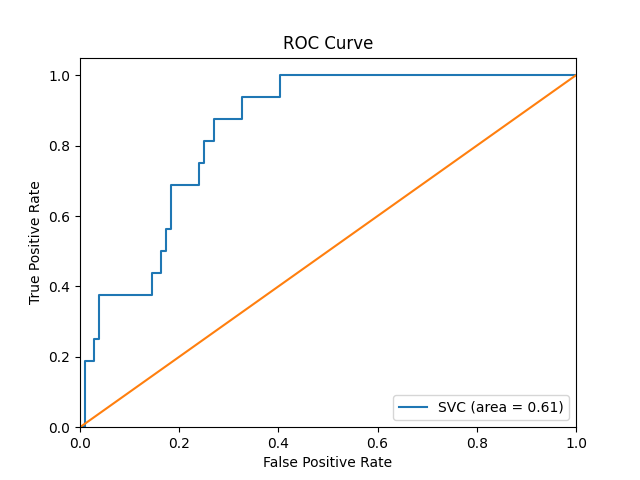
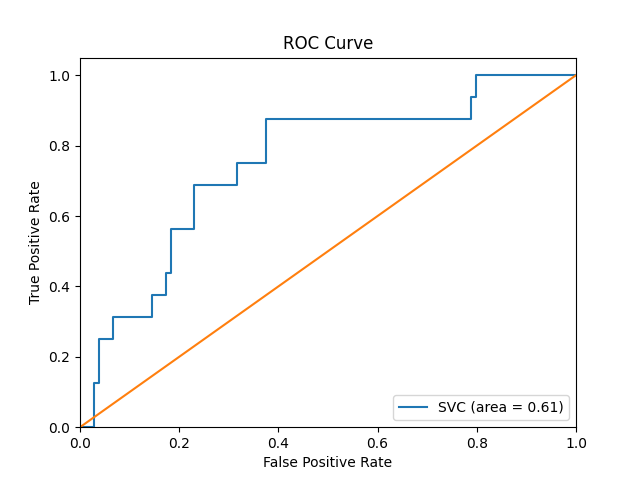
fixing svm

diff --git a/linearSVM.py b/linearSVM.py
@@ -41,7 +41,7 @@ print("Precision:", metrics.precision_score(y_test, y_pred1))
 print("Recall:", metrics.recall_score(y_test, y_pred1))
 
 # feature importance/selection (dimensionality reduction)
-# 'B', 'C', 'F', 'G', 'H', 'I', 'J', 'K', 'L', 'M', 'N', 'O', 'P' features give greatest accuracy and keeps the most possible features
+# ['A', 'B', 'E', 'F', 'G', 'H', 'I', 'K', 'M', 'N', 'O', 'P']
 # x_train_new = x_train.copy()
 # x_test_new = x_test.copy()
 #
@@ -74,19 +74,17 @@ print("Recall:", metrics.recall_score(y_test, y_pred1))
 #             print(ls, "  Accuracy on training set:{:.4%}".format(accuracy),
 #             " Accuracy on test set:{:.4%}".format(accuracy1))
 
-x_train = pd.concat([x_train["1st_serve_points_won"], x_train["2nd_serve_points_won"],
+x_train = pd.concat([x_train["1st_serve"], x_train["1st_serve_points_won"], x_train["service_games_won"],
                      x_train["1st_serve_return_points_won"], x_train["2nd_serve_return_points_won"],
-                             x_train["break_points_converted"], x_train["return_games_won"], x_train["rank"],
-                     x_train["height (cm)"], x_train["matches_played"], x_train["aces_per_match"],
-                     x_train["double_faults_per_match"], x_train["break_points_opportunities_per_match"],
-                             x_train["break_points_faced_per_match"]], axis=1)
+                     x_train["break_points_converted"], x_train["return_games_won"], x_train["height (cm)"],
+                     x_train["aces_per_match"], x_train["double_faults_per_match"],
+                     x_train["break_points_opportunities_per_match"], x_train["break_points_faced_per_match"]], axis=1)
 
-x_test = pd.concat([x_test["1st_serve_points_won"], x_test["2nd_serve_points_won"],
+x_test = pd.concat([x_test["1st_serve"], x_test["1st_serve_points_won"], x_test["service_games_won"],
                      x_test["1st_serve_return_points_won"], x_test["2nd_serve_return_points_won"],
-                             x_test["break_points_converted"], x_test["return_games_won"], x_test["rank"],
-                     x_test["height (cm)"], x_test["matches_played"], x_test["aces_per_match"],
-                     x_test["double_faults_per_match"], x_test["break_points_opportunities_per_match"],
-                             x_test["break_points_faced_per_match"]], axis=1)
+                     x_test["break_points_converted"], x_test["return_games_won"], x_test["height (cm)"],
+                     x_test["aces_per_match"], x_test["double_faults_per_match"],
+                     x_test["break_points_opportunities_per_match"], x_test["break_points_faced_per_match"]], axis=1)
 
 # SVM with dimensionality reduction
 model2 = svm.SVC(kernel='linear', probability=True)
@@ -109,7 +107,7 @@ df['true'] = y_test
 df['predicted'] = y_pred1
 df['probability0'] = prob[:, 0]
 df['probability1'] = prob[:, 1]
-df1 = pd.concat([df["rank"], df["true"], df["predicted"], df["probability0"], df["probability1"]], axis=1)
+df1 = pd.concat([df["true"], df["predicted"], df["probability0"], df["probability1"]], axis=1)
 final_df = df1.sort_values(by=['probability1'], ascending=False)
 print(final_df.head(16))
 
@@ -137,14 +135,14 @@ plt.savefig('SVM_images/linearSVM_ROC')
 plt.close()
 
 # hyperparameter tuning
-# the best parameters are C = 0.1
+# the best parameter is C = 10
 param_grid = {'C': [0.1, 1, 10, 100]}
-grid = GridSearchCV(svm.SVC(kernel='linear'), param_grid, refit=True, verbose=3)
+grid = GridSearchCV(svm.SVC(kernel='linear'), param_grid, scoring='f1', refit=True, verbose=3)
 #grid.fit(x_train, y_train)
 #print(grid.best_params_)
 
 # SVM with hyperparameters and dimensionality reduction
-model3 = svm.SVC(C=0.01, kernel='linear', probability=True)
+model3 = svm.SVC(C=10, kernel='linear', probability=True)
 model3.fit(x_train, y_train)
 y_pred = model3.predict(x_train)
 y_pred1 = model3.predict(x_test)

diff --git a/polySVM.py b/polySVM.py
@@ -42,7 +42,7 @@ print("Precision:", metrics.precision_score(y_test, y_pred1))
 print("Recall:", metrics.recall_score(y_test, y_pred1))
 
 # feature importance/selection (dimensionality reduction)
-# 'B', 'C', 'E', 'G', 'I', 'J', 'K', 'L', 'N', 'O', 'P' features give greatest accuracy and keeps the most possible features
+# 'A', 'B', 'F', 'J', 'K', 'L', 'N', 'O'
 # x_train_new = x_train.copy()
 # x_test_new = x_test.copy()
 #
@@ -75,17 +75,13 @@ print("Recall:", metrics.recall_score(y_test, y_pred1))
 #             print(ls, "  Accuracy on training set:{:.4%}".format(accuracy),
 #             " Accuracy on test set:{:.4%}".format(accuracy1))
 
-x_train = pd.concat([x_train["1st_serve_points_won"], x_train["2nd_serve_points_won"],
-                     x_train["service_games_won"], x_train["2nd_serve_return_points_won"], x_train["return_games_won"],
+x_train = pd.concat([x_train["1st_serve"], x_train["1st_serve_points_won"], x_train["1st_serve_return_points_won"],
                      x_train["rank"], x_train["height (cm)"], x_train["matches_played"],
-                     x_train["double_faults_per_match"], x_train["break_points_opportunities_per_match"],
-                     x_train["break_points_faced_per_match"]], axis=1)
+                     x_train["double_faults_per_match"], x_train["break_points_opportunities_per_match"]], axis=1)
 
-x_test = pd.concat([x_test["1st_serve_points_won"], x_test["2nd_serve_points_won"],
-                     x_test["service_games_won"], x_test["2nd_serve_return_points_won"], x_test["return_games_won"],
+x_test = pd.concat([x_test["1st_serve"], x_test["1st_serve_points_won"], x_test["1st_serve_return_points_won"],
                      x_test["rank"], x_test["height (cm)"], x_test["matches_played"],
-                     x_test["double_faults_per_match"], x_test["break_points_opportunities_per_match"],
-                     x_test["break_points_faced_per_match"]], axis=1)
+                     x_test["double_faults_per_match"], x_test["break_points_opportunities_per_match"]], axis=1)
 
 # SVM with dimensionality reduction
 model2 = svm.SVC(kernel='poly', probability=True)
@@ -105,10 +101,8 @@ feature_names = ["1st_serve_points_won", "2nd_serve_points_won", "service_games_
                  "break_points_opportunities_per_match", "break_points_faced_per_match"]
 features = np.array(feature_names)
 sorted_idx = per_importance.importances_mean.argsort()
-plt.barh(features[sorted_idx], per_importance.importances_mean[sorted_idx])
-plt.xlabel("Permutation Importance")
-plt.savefig("SVM_images/polySVM_feature_importance")
-plt.clf()
+print(features[sorted_idx])
+print(per_importance.importances_mean[sorted_idx])
 
 # result dataframe
 df = x_test.copy()
@@ -143,15 +137,15 @@ plt.legend(loc='lower right')
 plt.savefig('SVM_images/polySVM_ROC')
 plt.close()
 
-# # hyperparameter tuning
-# the best parameters are C = 1 and gamma = 0.1 and degree = 5
-param_grid = {'C': [0.1, 1, 10, 100], 'gamma': [0.001, 0.01, 0.1, 1], 'degree': [0, 1, 2, 3, 4, 5, 6]}
-grid = GridSearchCV(svm.SVC(kernel='poly'), param_grid, refit=True, verbose=3)
+# hyperparameter tuning
+# the best parameters are C = 0.1 and gamma = 1 and degree = 3
+param_grid = {'C': [0.1, 1, 10, 100], 'gamma': [0.0001, 0.001, 0.01, 0.1, 1], 'degree': [0, 1, 2, 3, 4, 5, 6]}
+grid = GridSearchCV(svm.SVC(kernel='poly'), param_grid, scoring='f1', refit=True, verbose=3)
 #grid.fit(x_train, y_train)
 #print(grid.best_params_)
 
 # SVM with hyperparameters and dimensionality reduction
-model3 = svm.SVC(C=1, gamma=0.1, degree=5, kernel='poly', probability=True)
+model3 = svm.SVC(C=0.1, gamma=1, degree=3, kernel='poly', probability=True)
 model3.fit(x_train, y_train)
 y_pred = model3.predict(x_train)
 y_pred1 = model3.predict(x_test)

diff --git a/rbfSVM.py b/rbfSVM.py
@@ -42,7 +42,7 @@ print("Precision:", metrics.precision_score(y_test, y_pred1))
 print("Recall:", metrics.recall_score(y_test, y_pred1))
 
 # feature importance/selection (dimensionality reduction)
-# 'A', 'D', 'E', 'F', 'I', 'J', 'N', 'O' features give greatest accuracy and keeps the most possible features
+# 'A', 'D', 'E', 'F', 'J', 'N', 'O'
 # x_train_new = x_train.copy()
 # x_test_new = x_test.copy()
 #
@@ -76,11 +76,11 @@ print("Recall:", metrics.recall_score(y_test, y_pred1))
 #             " Accuracy on test set:{:.4%}".format(accuracy1))
 
 x_train = pd.concat([x_train["1st_serve"], x_train["break_points_saved"], x_train["service_games_won"],
-                     x_train["1st_serve_return_points_won"], x_train["return_games_won"], x_train["rank"],
+                     x_train["1st_serve_return_points_won"], x_train["rank"],
                      x_train["double_faults_per_match"], x_train["break_points_opportunities_per_match"]], axis=1)
 
 x_test = pd.concat([x_test["1st_serve"], x_test["break_points_saved"], x_test["service_games_won"],
-                     x_test["1st_serve_return_points_won"], x_test["return_games_won"], x_test["rank"],
+                     x_test["1st_serve_return_points_won"],  x_test["rank"],
                      x_test["double_faults_per_match"], x_test["break_points_opportunities_per_match"]], axis=1)
 
 # SVM with dimensionality reduction
@@ -100,10 +100,8 @@ feature_names = ["1st_serve", "break_points_saved", "service_games_won", "1st_se
                  "return_games_won", "rank","double_faults_per_match","break_points_opportunities_per_match"]
 features = np.array(feature_names)
 sorted_idx = per_importance.importances_mean.argsort()
-plt.barh(features[sorted_idx], per_importance.importances_mean[sorted_idx])
-plt.xlabel("Permutation Importance")
-plt.savefig("SVM_images/rbfSVM_feature_importance")
-plt.clf()
+print(features[sorted_idx])
+print(per_importance.importances_mean[sorted_idx])
 
 # result dataframe
 df = x_test.copy()
@@ -139,14 +137,14 @@ plt.savefig('SVM_images/rbfSVM_ROC')
 plt.close()
 
 # hyperparameter tuning
-# the best parameters are C = 0.1 and gamma = 0.001
-param_grid = {'C': [0.1, 1, 10, 100], 'gamma': [0.001, 0.01, 0.1, 1]}
-grid = GridSearchCV(svm.SVC(kernel='rbf'), param_grid, refit=True, verbose=3)
+# the best parameters are C = 100 and gamma = 0.01
+param_grid = {'C': [0.1, 1, 10, 100], 'gamma': [0.0001, 0.001, 0.01, 0.1, 1]}
+grid = GridSearchCV(svm.SVC(kernel='rbf'), param_grid, scoring='f1', refit=True, verbose=3)
 #grid.fit(x_train, y_train)
 #print(grid.best_params_)
 
 # SVM with hyperparameters and dimensionality reduction
-model3 = svm.SVC(C=0.1, gamma=0.001, kernel='rbf', probability=True)
+model3 = svm.SVC(C=100, gamma=0.01, kernel='rbf', probability=True)
 model3.fit(x_train, y_train)
 y_pred = model3.predict(x_train)
 y_pred1 = model3.predict(x_test)
